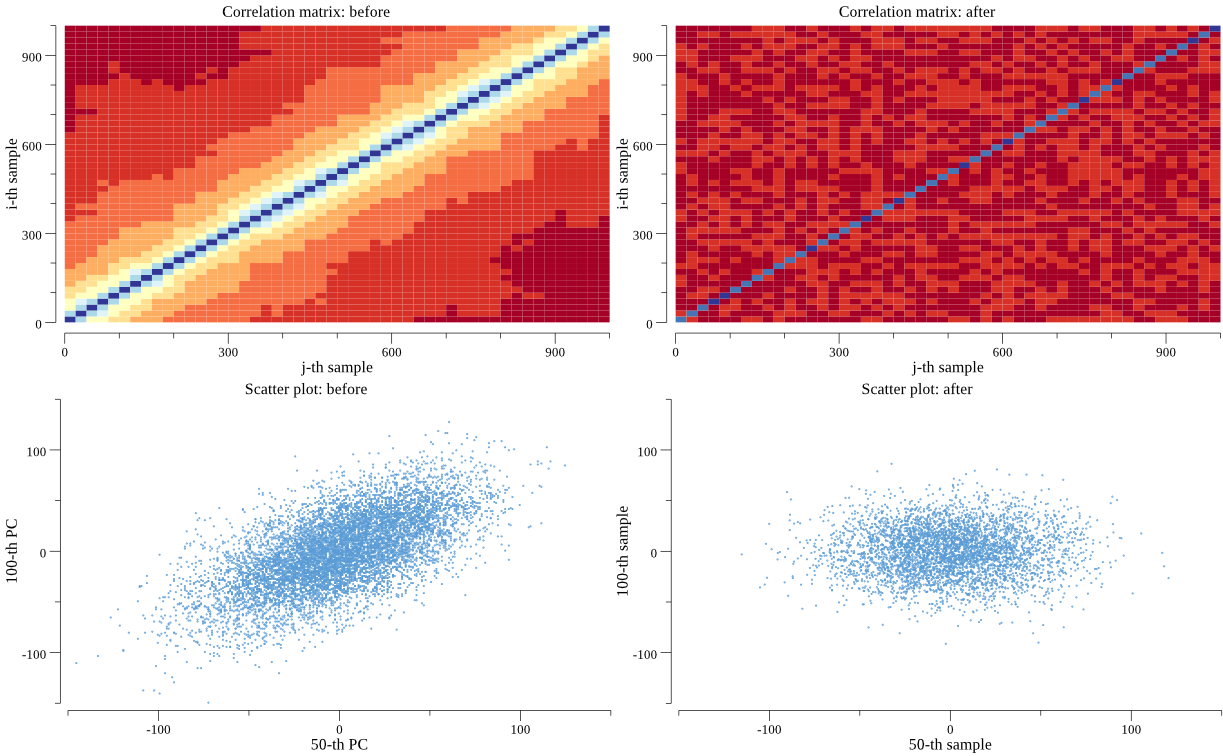
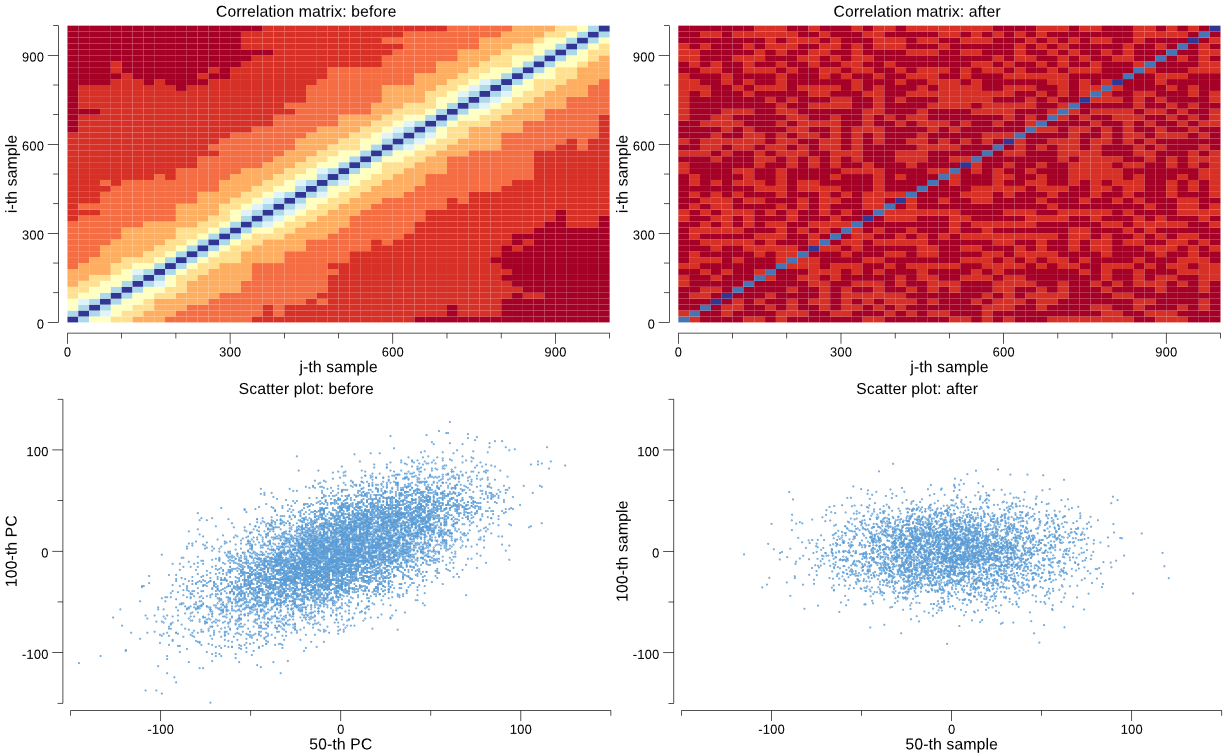
all: use new hplot.New

diff --git a/go-version/main.go b/go-version/main.go
@@ -107,10 +107,7 @@ func main() {
 
 	log.Printf("creating plots...")
 	t5 := time.Now()
-	tp, err := hplot.NewTiledPlot(draw.Tiles{Cols: 2, Rows: 2})
-	if err != nil {
-		log.Fatal(err)
-	}
+	tp := hplot.NewTiledPlot(draw.Tiles{Cols: 2, Rows: 2})
 
 	var grp errgroup.Group
 	grp.Go(func() error {
@@ -208,10 +205,7 @@ func main() {
 			}
 			h.Scale(1 / h.Integral())
 
-			hh, err := hplot.NewH1D(h)
-			if err != nil {
-				log.Fatal(err)
-			}
+			hh := hplot.NewH1D(h)
 			hh.Color = colors[i]
 			hh.FillColor = nil
 			p.Add(hh)
@@ -233,10 +227,7 @@ func main() {
 
 	t6 := time.Now()
 	log.Printf("creating correlation plots...")
-	tp, err = hplot.NewTiledPlot(draw.Tiles{Rows: 2, Cols: 2})
-	if err != nil {
-		log.Fatal(err)
-	}
+	tp = hplot.NewTiledPlot(draw.Tiles{Rows: 2, Cols: 2})
 
 	grp.Go(func() error {
 		p := tp.Plot(0, 0)
@@ -372,4 +363,8 @@ func readRawData(fname string) (*mat.Dense, error) {
 	adc = adc[:ndim*Ndim]
 	m := mat.NewDense(ndim, Ndim, adc)
 	return m, nil
+}
+
+func init() {
+	plotter.DefaultLineStyle.Width = vg.Points(2)
 }
